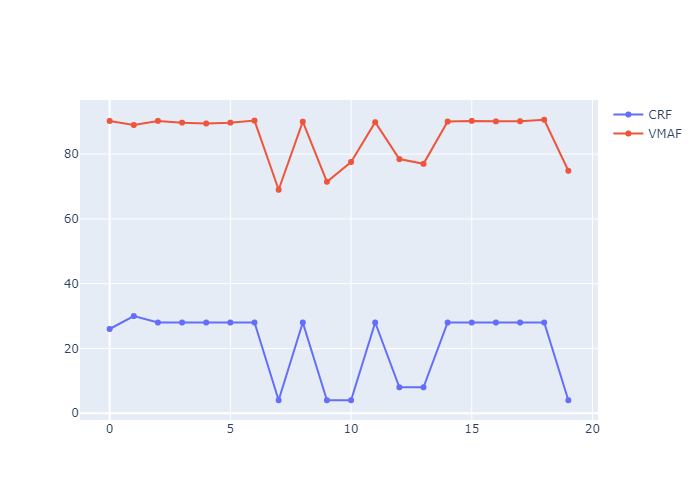
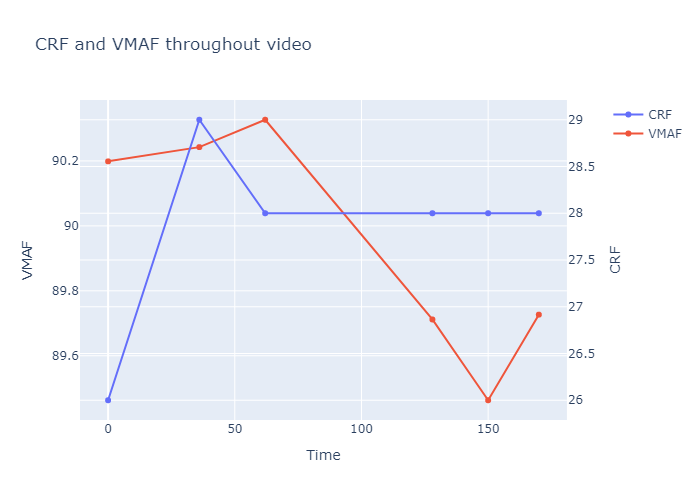
All parts of the code is working, other than recombining
The concat function works, but for some reason the split videos add to
2x the input video size...

diff --git a/src/target_video_quality.py b/src/target_video_quality.py
@@ -1,15 +1,15 @@
-import ffmpeg
 from rich import print
-import os
+import ffmpeg
 import ffmpeg_heuristics
-import scene_detection
 import graph_generate
+import os
+import scene_detection
 
 
 class Compress_video:
     @staticmethod
     def compress_video(
-        input_filename: str,
+        input_filename_with_extension: str,
         ffmpeg_codec_information: ffmpeg.video,
         heuristic_type: ffmpeg_heuristics.heuristic,
         output_filename: str | None = None,
@@ -21,6 +21,8 @@ class Compress_video:
         ffmpeg_path: str = "ffmpeg",
         # draw_matplotlib_graph: bool = True,
         extra_current_crf_itterate_amount: int = 1,
+        delete_tempoary_files: bool = True,
+        scene_detection_threshold: float = 27.0,
     ):
         """
         This does practically all of the calculations
@@ -29,17 +31,20 @@ class Compress_video:
         This also recombines the video at the end
         """
 
-        video_scenes = scene_detection.find_scenes(input_filename)
+        video_scenes = scene_detection.find_scenes(
+            video_path=input_filename_with_extension,
+            threshold=scene_detection_threshold,
+        )
         print(f"{video_scenes=}")
 
         video_data_crf_heuristic: list[tuple[int, float]] = []
 
-        for i, scenes in enumerate(video_scenes):
+        for i, scenes in enumerate(video_scenes[0]):
             print(f"RUNNING SECTION {i} OF SCENE")
             optimal_crf_value, heuristic_value_of_encode = (
                 Compress_video._compress_video_part(
-                    input_filename=input_filename,
-                    output_filename=f"{i}-{input_filename}",
+                    input_filename=input_filename_with_extension,
+                    output_filename=f"{i}-{input_filename_with_extension}",
                     part_beginning=scenes[0],
                     part_end=scenes[1],
                     heuristic_type=heuristic_type,
@@ -56,31 +61,42 @@ class Compress_video:
             )
 
         with graph_generate.linegraph_image(
-            filename_without_extension="Video_information"
+            filename_without_extension="Video_information",
+            title_of_graph=f"CRF and {heuristic_type.NAME} throughout video",
+            x_axis_name="Time",
         ) as graph:
             graph.add_linegraph(
-                x_data=list(range(len(video_data_crf_heuristic))),
+                x_data=[x[0] for x in video_scenes[1]],
                 y_data=[x[0] for x in video_data_crf_heuristic],
                 name="CRF",
                 mode="lines+markers",
+                on_left_right_side="left",
             )
             graph.add_linegraph(
-                x_data=list(range(len(video_data_crf_heuristic))),
+                x_data=[x[0] for x in video_scenes[1]],
                 y_data=[x[1] for x in video_data_crf_heuristic],
                 name=heuristic_type.NAME,
                 mode="lines+markers",
+                on_left_right_side="right",
             )
 
         # graph = graph_generate.linegraph()
         # graph.add_linegraph()
 
         if output_filename is None:
-            output_filename = f"RENDERED - {input_filename}"
+            output_filename = f"RENDERED - {input_filename_with_extension}"
 
         ffmpeg.concatenate_video_files(
-            [f"{x}-test.mp4" for x in range(len(video_scenes))], output_filename
+            [
+                f"{x}-{input_filename_with_extension}"
+                for x in range(len(video_scenes[0]))
+            ],
+            output_filename,
         )
-        [os.remove(f"{x}-test.mp4") for x in range(len(video_scenes))]
+
+        if delete_tempoary_files:
+            for x in range(len(video_scenes)):
+                os.remove(f"{x}-{input_filename_with_extension}")
 
     @staticmethod
     def _compress_video_part(
@@ -129,14 +145,7 @@ class Compress_video:
                 )
                 * extra_current_crf_itterate_amount
             ) not in all_heuristic_crf_data.values():
-                # current_crf = (
-                #     current_crf // extra_current_crf_itterate_amount
-                # ) * extra_current_crf_itterate_amount
-
-                print(f"RUNNING CRF VALUE {current_crf}")  # BUG HERE!!!
-                # _ = input(
-                #     f"{current_crf} - {current_crf in all_heuristic_crf_data.values()}"
-                # )
+                print(f"RUNNING CRF VALUE {current_crf}")
 
                 command.run_ffmpeg_command(current_crf)
 
@@ -157,7 +166,7 @@ class Compress_video:
                 elif current_crf_heuristic == heuristic_type.target_score:
                     break
                 print(
-                    f"FINISHED RUNNING {current_crf} -> {current_crf_heuristic} compared to {heuristic_type.target_score} | {all_heuristic_crf_data}"
+                    f"    FINISHED RUNNING {current_crf} -> {current_crf_heuristic} compared to {heuristic_type.target_score} | {all_heuristic_crf_data}"
                 )
                 # _ = input("continue?")
 

diff --git a/src/ffmpeg.py b/src/ffmpeg.py
@@ -196,23 +196,37 @@ class FfmpegCommand:
         # os.remove(f"intermediate-{self.output_filename}")
 
 
-def concatenate_video_files(list_of_video_files: list[str], output_filename: str):
+def concatenate_video_files(
+    list_of_video_files: list[str], output_filename_with_extension: str
+):
     """
     NOTE THE CODEC OF THE VIDEO FILES MUST BE THE SAME!
     This combines the video files together
     """
-    concatenated_list_of_video_files = " ".join(
-        f'-i "{x}"' for x in list_of_video_files
-    )
-    concatenated_list_of_video_files_filter = "".join(
-        f"[{x}:v:0]" for x in range(len(list_of_video_files))
-    )
+    # This old method used the concat protocol
 
-    print(
-        f'ffmpeg {concatenated_list_of_video_files} -filter_complex "{concatenated_list_of_video_files_filter}concat=n={len(list_of_video_files)}:v=1:[outv]" -map [outv] "{output_filename}"'
-    )
-    _ = os.system(
-        f'ffmpeg {concatenated_list_of_video_files} -filter_complex "{concatenated_list_of_video_files_filter}concat=n={len(list_of_video_files)}:v=1:[outv]" -map [outv] "{output_filename}"'
-    )
+    # concatenated_list_of_video_files = " ".join(
+    #     f'-i "{x}"' for x in list_of_video_files
+    # )
+    # concatenated_list_of_video_files_filter = "".join(
+    #     f"[{x}:v:0]" for x in range(len(list_of_video_files))
+    # )
+    #
+    # print(
+    #     f'ffmpeg {concatenated_list_of_video_files} -filter_complex "{concatenated_list_of_video_files_filter}concat=n={len(list_of_video_files)}:v=1:[outv]" -map [outv] -c copy "{output_filename}"'
+    # )
+    # _ = os.system(
+    #     f'ffmpeg {concatenated_list_of_video_files} -filter_complex "{concatenated_list_of_video_files_filter}concat=n={len(list_of_video_files)}:v=1:[outv]" -map [outv] -c copy "{output_filename}"'
+    # )
 
     # ffmpeg -i 1-test.mp4 -i 0-test.mp4 -i 0-test.mp4 -filter_complex "[0:v:0][1:v:0][2:v:0]concat=n=3:v=1:[outv]" -map "[outv]" output.mkv
+
+    # New method using concat demuxer
+    with open("video_list.txt", "w") as file:
+        _ = file.write("\n".join(f"file '{x}'" for x in list_of_video_files))
+
+    _ = os.system(
+        f'ffmpeg -f concat -safe 0 -i video_list.txt -c copy -y "{output_filename_with_extension}"'
+    )
+
+    # os.remove("video_list.txt")

diff --git a/src/graph_generate.py b/src/graph_generate.py
@@ -1,7 +1,10 @@
 # import plotly.express as px
 from types import TracebackType
 from typing import Literal
+
 import plotly.graph_objects as go
+from plotly.subplots import make_subplots
+
 # import pandas as pd
 # import matplotlib_graphs
 
@@ -31,10 +34,15 @@ class linegraph_image:
         self,
         filename_without_extension: str,
         fileformat: Literal["png", "jpeg", "webp", "svg", "pdf"] = "png",
+        title_of_graph: str | None = None,
+        x_axis_name: str | None = None,
     ) -> None:
-        self.fig = go.Figure()
+        # self.fig = go.Figure()
+        self.fig = make_subplots(specs=[[{"secondary_y": True}]])
         self.filename = filename_without_extension
+        self.title_of_graph = title_of_graph
         self.fileformat = fileformat
+        self.x_axis_name = x_axis_name
 
     def __enter__(self):
         return self
@@ -45,6 +53,7 @@ class linegraph_image:
         y_data: list[int | float],
         name: str,
         mode: Literal["lines", "lines+markers"],
+        on_left_right_side: Literal["left", "right"],
     ) -> None:
         _ = self.fig.add_trace(
             go.Scatter(
@@ -52,7 +61,11 @@ class linegraph_image:
                 y=y_data,
                 mode=mode,
                 name=name,
-            )
+            ),
+            secondary_y=(on_left_right_side == "left"),
+        )
+        _ = self.fig.update_yaxes(
+            title_text=name, secondary_y=(on_left_right_side == "left")
         )
 
     def __exit__(
@@ -61,4 +74,9 @@ class linegraph_image:
         exc_value: BaseException | None,
         exc_traceback: TracebackType | None,
     ) -> None:
+        _ = self.fig.update_layout(title_text=self.title_of_graph)
+
+        if self.x_axis_name is not None:
+            _ = self.fig.update_xaxes(title_text=self.x_axis_name)
+
         self.fig.write_image(self.filename + "." + self.fileformat)

diff --git a/src/scene_detection.py b/src/scene_detection.py
@@ -8,7 +8,9 @@ from scenedetect.frame_timecode import FrameTimecode
 
 def find_scenes(
     video_path: str, threshold: float = 27.0
-) -> list[tuple[str, str]]:  # list[tuple[FrameTimecode, FrameTimecode]]:
+) -> tuple[
+    list[tuple[str, str]], list[tuple[float, float]]
+]:  # list[tuple[FrameTimecode, FrameTimecode]]:
     """
     Function that gets the frames of the different scenes in the video
     """
@@ -22,11 +24,18 @@ def find_scenes(
     # `get_scene_list` returns a list of start/end timecode pairs
     # for each scene that was found.
     # return scene_manager.get_scene_list()
-    return [
-        # (x[0].get_frames(), x[1].get_frames()) for x in scene_manager.get_scene_list()
-        (x[0].get_timecode(), x[1].get_timecode())
-        for x in scene_manager.get_scene_list()
-    ]
+
+    # (x[0].get_frames(), x[1].get_frames()) for x in scene_manager.get_scene_list()
+    return (
+        [
+            (x[0].get_timecode(), x[1].get_timecode())
+            for x in scene_manager.get_scene_list()
+        ],
+        [
+            (x[0].get_frames(), x[1].get_frames())
+            for x in scene_manager.get_scene_list()
+        ],
+    )
 
 
 # data = find_scenes("test.mp4")

diff --git a/src/main_program.py b/src/main_program.py
@@ -9,15 +9,17 @@ import target_video_quality
 def main() -> None:
     # check if FFMPEG is installed
 
-    video_path: str = "test.mp4"
+    video_path: str = "testsmall.mp4"
 
     target_video_quality.Compress_video.compress_video(
-        input_filename=video_path,
+        input_filename_with_extension=video_path,
         output_filename="OUTPUT FILE.mp4",
         ffmpeg_codec_information=ffmpeg.H264(preset="ultrafast"),
         heuristic_type=ffmpeg_heuristics.VMAF(target_score=90),
         crop_black_bars=True,
-        extra_current_crf_itterate_amount=2,
+        extra_current_crf_itterate_amount=1,
+        delete_tempoary_files=False,
+        scene_detection_threshold=27,
     )
 
 
@@ -25,8 +27,8 @@ if __name__ == "__main__":
     start_time = time.perf_counter()
     try:
         main()
-    except Exception as e:
-        raise e
+    # except Exception as e:
+    #     print(f"EXCEPTION: {e}")
     finally:
         end_time = time.perf_counter()
-        print(f"Total elapsed time: {end_time - start_time}")
+        print(f"\n\nTotal elapsed time: {end_time - start_time} seconds")

diff --git a/src/ffmpeg_heuristics.py b/src/ffmpeg_heuristics.py
@@ -7,6 +7,10 @@ type heuristic = VMAF
 
 @dataclass()
 class VMAF:
+    """
+    the VMAF heuristic. A score of like 90 is usually good
+    """
+
     target_score: int
     NAME: str = "VMAF"
 
